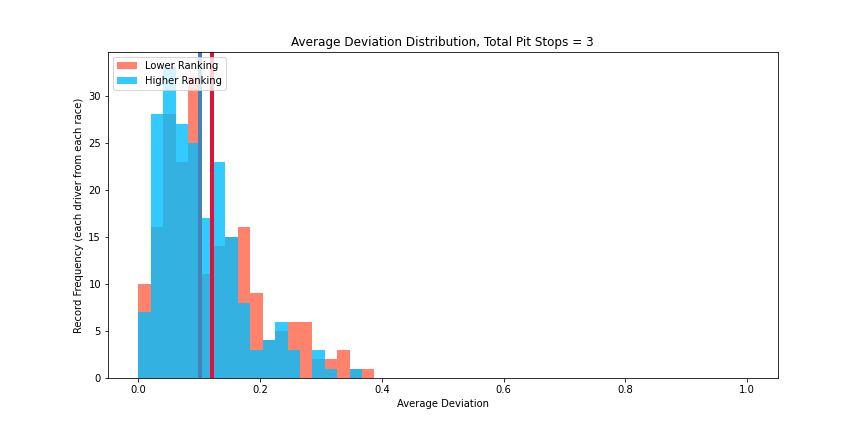
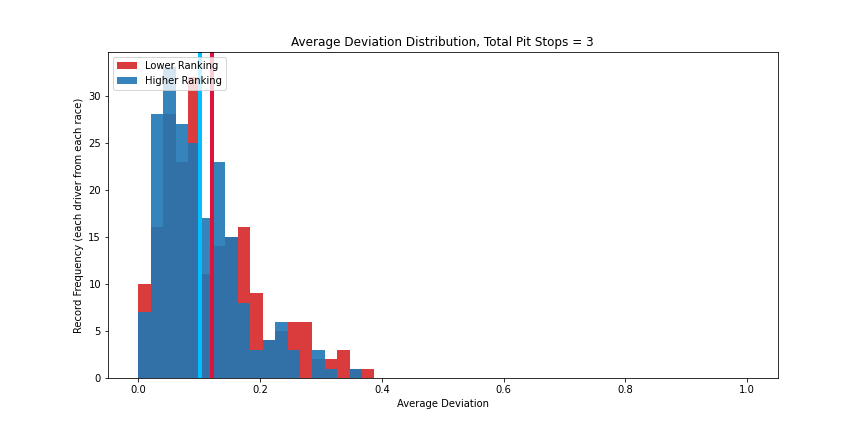
statistical test update: One sample T Test

Changed region(s): [[0.1562, 0.2106, 0.4375, 0.8727], [0.125, 0.1204, 0.1562, 0.2106]]

diff --git a/final_func.py b/final_func.py
@@ -267,8 +267,8 @@ def err_mean_plot(list_1: [pd.DataFrame], list_2: [pd.DataFrame], save_fig=False
     :return: None
     """
     bins = np.linspace(0, 1, 50)
-    color_bin = ['deepskyblue', 'tab:orange', 'tomato']
-    color_bin2 = ['steelblue', 'crimson', 'lavender']
+    color_bin = ['tab:blue', 'tab:orange', 'tab:red']
+    color_bin2 = ['deepskyblue', 'crimson', 'lavender']
 
     num = len(list_1)
     for i in range(num):
@@ -281,8 +281,8 @@ def err_mean_plot(list_1: [pd.DataFrame], list_2: [pd.DataFrame], save_fig=False
         plt.title(f'Average Deviation Distribution, Total Pit Stops = {i + 1}')
         plt.xlabel('Average Deviation')
         plt.ylabel('Record Frequency (each driver from each race)')
-        plt.hist(_df_back, bins, alpha=0.8, color=color_bin[2], label='Lower Ranking')
-        plt.hist(_df_front, bins, alpha=0.8, color=color_bin[0], label='Higher Ranking')
+        plt.hist(_df_back, bins, alpha=0.9, color=color_bin[2], label='Lower Ranking')
+        plt.hist(_df_front, bins, alpha=0.9, color=color_bin[0], label='Higher Ranking')
         plt.legend(loc="upper left")
 
         _df_front_mean = round(_df_front.mean(), ndigits=3)

diff --git a/README.md b/README.md
@@ -36,11 +36,11 @@ Noticing this pattern, we came up with the second hypothesis that the pit stops 
 To study such a pattern, we calculated the proportion of the total laps the driver pit at for each record in the racing results. For convenience, we call this proportion 'Lap Proportion'.
 Before we start, there is one property of the Lap Proportion column that we should notice. The numeric range of the Lap Proportion is not ideally continuous. The range of values the Lap Proportion can take is actually a discrete set because the domains of values that the numerators and the denominators (i.e. laps and total laps) can only be chosen from two very limited sets. Due to the discrete nature of the data, the Lap Proportion data, grouped by any number of total pit stops, is not normally distributed by strict definition. 
 
-However, the distribution statistics of these groups resemble the characteristics of normal distributions very well: All of the data groups are distributed symmetrically around the mean, with around 68% falling within one standard deviation, and with around 95% falling within two standard deviations. It would also be intuitive that such a distribution would follow a distribution similar to the normal distribution. Hence, we only assume that pit stop time points of each group are normally distributed given a broader definition. 
+However, the distribution statistics of these groups resemble the characteristics of normal distributions very well: All the data groups are distributed symmetrically around the mean, with around 68% falling within one standard deviation, and with around 95% falling within two standard deviations. It would also be intuitive that such a distribution would follow a distribution similar to the normal distribution. Hence, we only assume that pit stop time points of each group are normally distributed given a broader definition. 
 
-Even though, if we assume each group of data is normally distributed, we can notice that the means deviate quite a bit from the ideal dividing points (1/2, 1/3, 2/3, etc). In conclusion, we determine that the time points of the pit-stopping are not evenly distributed.
+Assuming these groups of data are normally distributed, we notice that the means deviate quite a bit from the ideal dividing points (1/2, 1/3, 2/3, etc.). Using one sample T-Tests, we calculated the p values for each group, and the results show that all the p values are significantly lower than the significant level of 0.05, with differences of at least 20 orders of magnitude.
 
-//////////////// Editing in Progress ////////////////
+In conclusion, we reject the null hypothesis and determine that the time points of the pit-stopping are not evenly distributed.
 
 
 ### 1.3 Hypothesis: Evenly distributed pit stops give better race results
